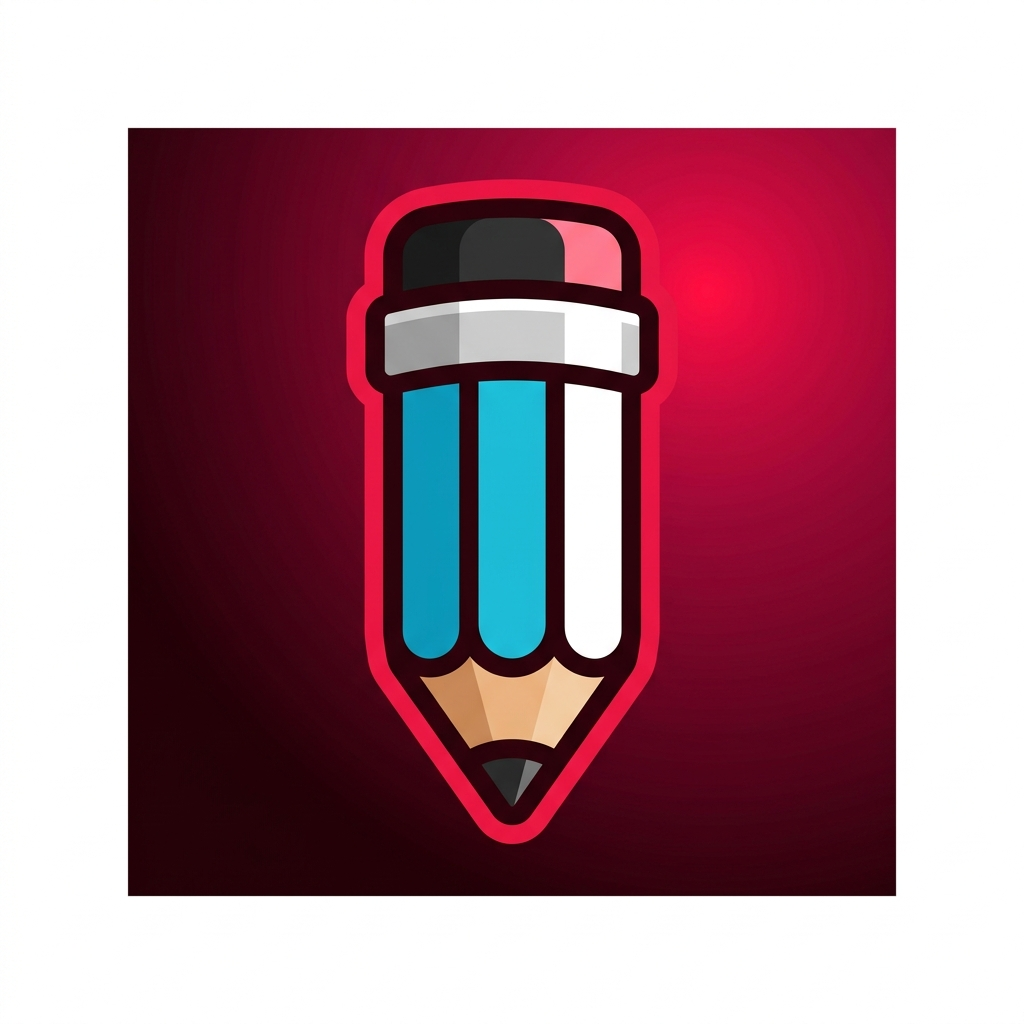
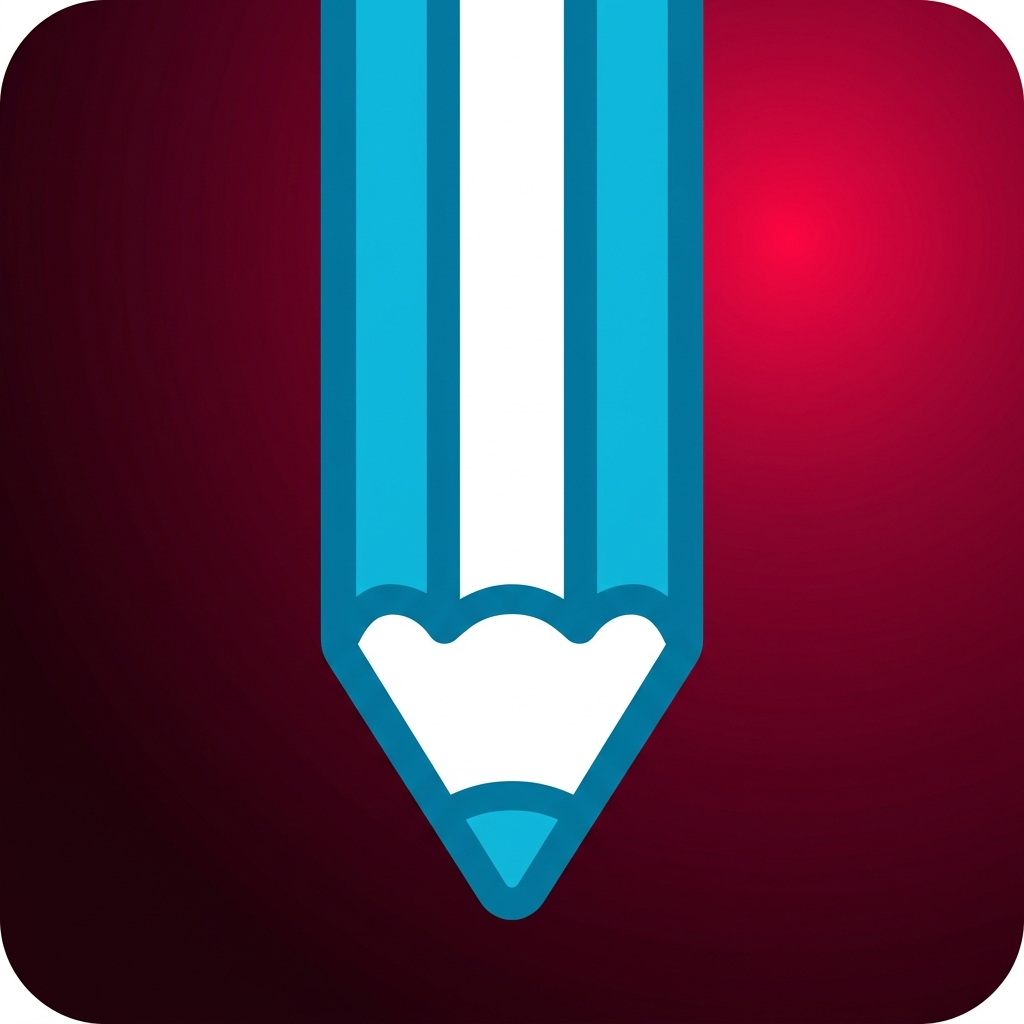
fix: resolve magnifier coordinate offset under high DPI scaling and enlarge taskbar/tray pencil assets

diff --git a/src/renderer/overlay.js b/src/renderer/overlay.js
@@ -1131,7 +1131,7 @@ function render() {
         ctx.translate(currentMousePos.x, currentMousePos.y);
         ctx.scale(zoom, zoom);
         ctx.translate(-currentMousePos.x, -currentMousePos.y);
-        ctx.drawImage(magnifierImg, 0, 0, canvas.width, canvas.height);
+        ctx.drawImage(magnifierImg, 0, 0, window.innerWidth, window.innerHeight);
         ctx.restore();
       } else {
         ctx.save();

diff --git a/walkthrough.md b/walkthrough.md
@@ -115,8 +115,8 @@ Ran the full test suite (`npm test`) which verified:
   - Verified that all premium icons resize cleanly and scale automatically in horizontal mode.
 
 ### 🖼️ Tray & Taskbar Icons
-- **Premium Radial Gradient Assets (Sharp Corners + Fat Pencil)**:
-  - Re-generated the PNG icon assets with a significantly thicker, fatter, and more prominent drawing pencil inside the center to ensure maximum visibility at low tray/taskbar resolutions.
+- **Premium Radial Gradient Assets (Sharp Corners + Giant Pencil)**:
+  - Re-generated the PNG icon assets with a giant, frame-filling pencil (occupying 95% of the frame) and removed all background padding margins. This ensures the pencil is huge and prominent even when Windows scales the icons down to small taskbar and system tray slots.
   - Replaced [app-icon.png](file:///c:/Users/TOSHIBA/.gemini/antigravity/scratch/epic-pen-clone/src/renderer/assets/app-icon.png) and [tray-icon.png](file:///c:/Users/TOSHIBA/.gemini/antigravity/scratch/epic-pen-clone/src/renderer/assets/tray-icon.png).
 
 ### 📐 SVG Icons & Layout Upgraded
@@ -125,6 +125,8 @@ Ran the full test suite (`npm test`) which verified:
 - **Highlighter Icon**: Replaced with the requested highlighter SVG from [SVGrepo 501220](https://www.svgrepo.com/svg/501220/highlighter) in both [toolbar.html](file:///c:/Users/TOSHIBA/.gemini/antigravity/scratch/epic-pen-clone/src/renderer/toolbar.html#L61) and [toolbar.js](file:///c:/Users/TOSHIBA/.gemini/antigravity/scratch/epic-pen-clone/src/renderer/toolbar.js#L60).
 - **Magic Shapes Icon**: Replaced with the requested magic shapes vector SVG from [SVGrepo 497512](https://www.svgrepo.com/svg/497512/shapes-2) in [toolbar.html](file:///c:/Users/TOSHIBA/.gemini/antigravity/scratch/epic-pen-clone/src/renderer/toolbar.html#L78).
 - **Dynamic ViewBox Fix**: Added dynamic `viewBox` attribute scaling to [toolbar.js](file:///c:/Users/TOSHIBA/.gemini/antigravity/scratch/epic-pen-clone/src/renderer/toolbar.js#L236-L260) to support varied coordinate boundaries (`0 0 906 906` for Spotlight, `0 0 1920 1920` for Highlighter, and `0 0 24 24` for others), preventing icons from rendering outside display bounds and resolving the empty presenter tools slot.
+- **Magnifier Tool Alignment Fix**: Updated [src/renderer/overlay.js](file:///c:/Users/TOSHIBA/.gemini/antigravity/scratch/epic-pen-clone/src/renderer/overlay.js#L1134) to render the magnifier background capture using logical window coordinates (`window.innerWidth`, `window.innerHeight`) instead of physical canvas dimensions (`canvas.width`, `canvas.height`). This fixes coordinate scale drift under high-DPI (scaled) displays, aligning the magnification point exactly with the crosshairs.
+
 
 
 